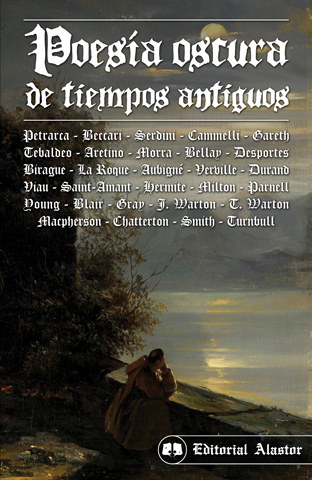
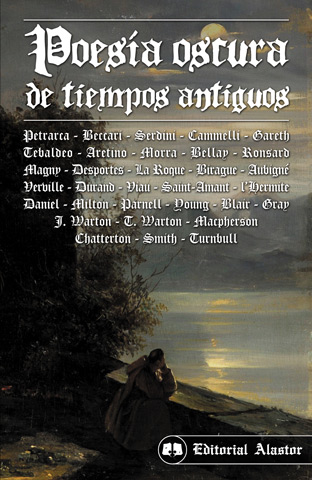
update prices

Changed region(s): [[0.0577, 0.2812, 0.9519, 0.5312]]

diff --git a/src/data/BookData.js b/src/data/BookData.js
@@ -12,7 +12,7 @@ const BookData = [
     mlibre: '',
     desc: 'Si bien las temáticas luctuosas, oscuras y de horror estuvieron presentes en la poesía occidental desde sus mismos orígenes, no sería sino hasta el Romanticismo que el gusto por la oscuridad se generalizaría y pasaría a formar parte de la estética de un movimiento entero. Partiendo de la balada de terror y sus escalofriantes escenas, el horror y los sentimientos mórbidos cautivarían a los autores románticos, tanto a los cultores de la poesía lírica como a los baladistas, y seguirían en lo sucesivo resultando una influencia insoslayable para muchas de las diferentes escuelas posrománticas y para casi toda la posterior literatura de horror, que llega hasta nuestros días. Este volumen, que a través de una comprensiva selección de 32 autores y 70 poemas nos lleva de la balada alemana al decadentismo francés pasando, entre muchos otros movimientos, por el medievalismo británico, nos ofrece un muy completo panorama de la importancia que estos oscuros temas tuvieron en las letras del siglo <span class="vers">XIX</span>.',
     index:
-      '<p><span>Francesco Petrarca</span><br/>Solo y pensativo / Oh, pasos errantes / Todo el día lloro / Ave más solitaria que yo<br/><br/><span>Antonio Beccari da Ferrara</span><br/>Las estrellas universales y los cielos que giran<br/><br/><span>Simone Serdini</span><br/>Los odiosos labios en que ya he puesto / Los cuerpos celestes y todas las estrellas<br/><br/><span>Antonio Cammelli</span><br/>La Disperata<br/><br/><span>Benedetto Gareth</span><br/>Mirando fijamente el blanco planeta / Si el habla perturbada y llena de horror<br/><br/><span>Antonio Tebaldeo</span><br/>Lengua mía cansada de tanto lamentarse<br/><br/><span>Pietro Aretino</span><br/>Desperata<br/><br/><span>Isabella di Morra</span><br/>Una vez más ahora, oh, valle infernal / Si a mis esperanzas un nuevo obstáculo<br/><br/><span>Joachim du Bellay</span><br/>Astros crueles, y vosotros, dioses inhumanos / El canto del desesperado<br/><br/><span>Philippe Desportes</span><br/>Noche, madre del temor, cruel con los afligidos / En torno a los cuerpos que temprana muerte<br/><br/><span>Flaminio de Birague</span><br/>Desesperado, totalmente cansado de la vida / Mi vida es un infierno de dolores y torturas / Vosotros que habitáis el negro Orco / Ya que la cruel hermana<br/><br/><span>Siméon-Guillaume de La Roque</span><br/>Oscuro valle, montaña imperturbable / Oh, miserable vida, por siempre agitada<br/><br/><span>Théodore Agrippa d’Aubigné</span><br/>Ved al cielo morir en un doloroso esfuerzo / Todos aquellos que han probado cuántas muertes<br/><br/><span>François Béroalde de Verville</span><br/>El fuego, el horror, la muerte, la pena y la ruina / Quiero ahogar mi vida entre torrentes de lágrimas<br/><br/><span>Estienne Durand</span><br/>Sombras que en el horror de vuestra noche eterna<br/><br/><span>Théophile de Viau</span><br/>Las parcas tienen rostros más alegres que el mío / Sobre el exilio<br/><br/><span>Marc-Antoine Girard de Saint-Amant</span><br/>La soledad<br/><br/><span>François Tristan l’Hermite</span><br/>En los cementerios / La miseria del hombre de mundo<br/><br/><span>John Milton</span><br/>L’Allegro / Il Penseroso / El paraíso perdido (extractos)<br/><br/><span>Thomas Parnell</span><br/>Nocturno sobre la muerte<br/><br/><span>Edward Young</span><br/>Pensamientos nocturnos (extractos)<br/><br/><span>Robert Blair</span><br/>La Tumba (extractos)<br/><br/><span>Thomas Gray</span><br/>Elegía escrita en un cementerio rural<br/><br/><span>Joseph Warton</span><br/>Oda a la Soledad / Oda a la Superstición<br/><br/><span>Thomas Warton</span><br/>Los placeres de la Melancolía<br/><br/><span>James Macpherson</span><br/>La canción de Colma<br/><br/><span>Thomas Chatterton</span><br/>Elegía / Elegía escrita en Stanton Drew<br/><br/><span>Charlotte Smith</span><br/>En las ruinas de una capilla desierta / En una aldea nevada bajo la luna / En un cementerio de Middleton / A la luna<br/><br/><span>Gavin Turnbull</span><br/>Elegía / Oda a la Melancolía / Endecha</p>',
+      '<p><span>Francesco Petrarca</span><br/>Solo y pensativo / Oh, pasos errantes / Todo el día lloro / Ave más solitaria que yo<br/><br/><span>Antonio Beccari da Ferrara</span><br/>Las estrellas universales y los cielos que giran<br/><br/><span>Simone Serdini</span><br/>Los odiosos labios en que ya he puesto / Los cuerpos celestes y todas las estrellas<br/><br/><span>Antonio Cammelli</span><br/>La Disperata<br/><br/><span>Benedetto Gareth</span><br/>Mirando fijamente el blanco planeta / Si el habla perturbada y llena de horror<br/><br/><span>Antonio Tebaldeo</span><br/>Lengua mía cansada de tanto lamentarse<br/><br/><span>Pietro Aretino</span><br/>Desperata<br/><br/><span>Isabella di Morra</span><br/>Una vez más ahora, oh, valle infernal / Si a mis esperanzas un nuevo obstáculo<br/><br/><span>Joachim du Bellay</span><br/>Astros crueles, y vosotros, dioses inhumanos / El dulce sueño me concede paz y placer / El canto del desesperado<br/><br/><span>Pierre de Ronsard</span><br/>Ah, largas noches de invierno / Ya no soy más que huesos<br/><br/><span>Olivier de Magny</span><br/>Ahora estoy solo y veo que nadie me escucha / Oh, clara luna que nos muestras tu rostro<br/><br/><span>Philippe Desportes</span><br/>Noche, madre del temor, cruel con los afligidos / En torno a los cuerpos que temprana muerte<br/><br/><span>Siméon-Guillaume de La Roque</span><br/>Oscuro valle, montaña imperturbable / Oh, miserable vida, por siempre agitada<br/><br/><span>Flaminio de Birague</span><br/>Desesperado, totalmente cansado de la vida / Mi vida es un infierno de dolores y torturas / Vosotros que habitáis el negro Orco / Ya que la cruel hermana<br/><br/><span>Théodore Agrippa d’Aubigné</span><br/>Suspiros exhalados, sollozos en el aire perdidos / Ved al cielo morir en un doloroso esfuerzo / Todos aquellos que han probado cuántas muertes<br/><br/><span>François Béroalde de Verville</span><br/>El fuego, el horror, la muerte, la pena y la ruina / Quiero ahogar mi vida entre torrentes de lágrimas<br/><br/><span>Estienne Durand</span><br/>Sombras que en el horror de vuestra noche eterna<br/><br/><span>Théophile de Viau</span><br/>Las parcas tienen rostros más alegres que el mío / Sobre el exilio<br/><br/><span>Marc-Antoine Girard de Saint-Amant</span><br/>La soledad<br/><br/><span>François Tristan l’Hermite</span><br/>En los cementerios / La miseria del hombre de mundo<br/><br/><span>Samuel Daniel</span><br/>Al Sueño / Si esto es el amor<br/><br/><span>John Milton</span><br/>L’Allegro / Il Penseroso / El paraíso perdido (extractos)<br/><br/><span>Thomas Parnell</span><br/>Nocturno sobre la muerte<br/><br/><span>Edward Young</span><br/>Pensamientos nocturnos (extractos)<br/><br/><span>Robert Blair</span><br/>La Tumba (extractos)<br/><br/><span>Thomas Gray</span><br/>Elegía escrita en un cementerio rural<br/><br/><span>Joseph Warton</span><br/>Oda a la Soledad / Oda a la Superstición<br/><br/><span>Thomas Warton</span><br/>Los placeres de la Melancolía<br/><br/><span>James Macpherson</span><br/>La canción de Colma<br/><br/><span>Thomas Chatterton</span><br/>Elegía / Elegía escrita en Stanton Drew<br/><br/><span>Charlotte Smith</span><br/>En las ruinas de una capilla desierta / En una aldea nevada bajo la luna / En un cementerio de Middleton / A la luna<br/><br/><span>Gavin Turnbull</span><br/>Elegía / Oda a la Melancolía / Endecha</p>',
     rels: [3, 4],
   },*/
   {

diff --git a/src/data/AuthorData.js b/src/data/AuthorData.js
@@ -380,7 +380,7 @@ const AuthorData = [
     links: [''],
     rels: [4],
   },*/
-  /* reliques entradas blogspot: elegía chatterton, 2sons petrarca, 2sons isabella, 2sons charlotte smith, 4exts disperata, 7sons neopetrarquismo francés, d'aubigné, soledad amant, 4exts poesía de cementerio (+ 2x milton);
+  /* reliques entradas blogspot: elegía chatterton, 2sons petrarca, 2sons isabella, 2sons charlotte smith, 4exts disperata, 10sons neopetrarquismo francés, d'aubigné, soledad amant, 4exts poesía de cementerio (+ 2x milton);
   sxix2: hoffmann irving hawthorne gogol hearn lautreamont huysmans wilde; dunsany; howard; */
 ]
 

diff --git a/src/data/Content.js b/src/data/Content.js
@@ -10,7 +10,7 @@ export const ContentProvider = ({ children }) => {
   const [books] = useState(BookData)
   const mail = 'info@editorial-alastor.com.ar'
   const mpago = 'https://mpago.la/1DNwc3V'
-  const prices = [800, 1200, 2400]
+  const prices = [1000, 1500, 3000]
 
   const [author, setAuthor] = useState({
     item: {},
@@ -44,8 +44,7 @@ export const ContentProvider = ({ children }) => {
         mail,
         mpago,
         prices,
-      }}
-    >
+      }}>
       {children}
     </Content.Provider>
   )
